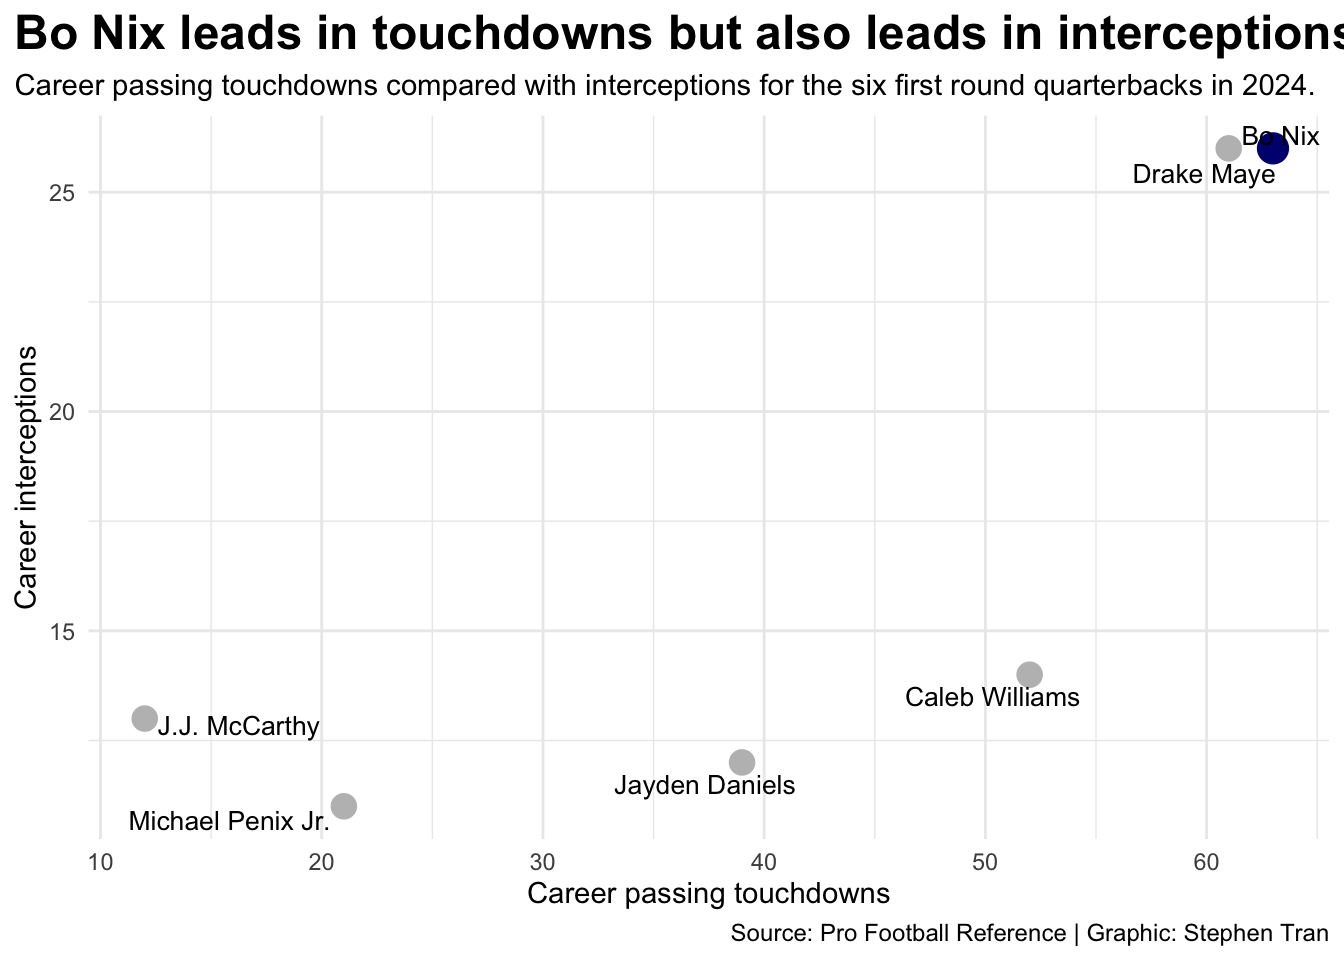
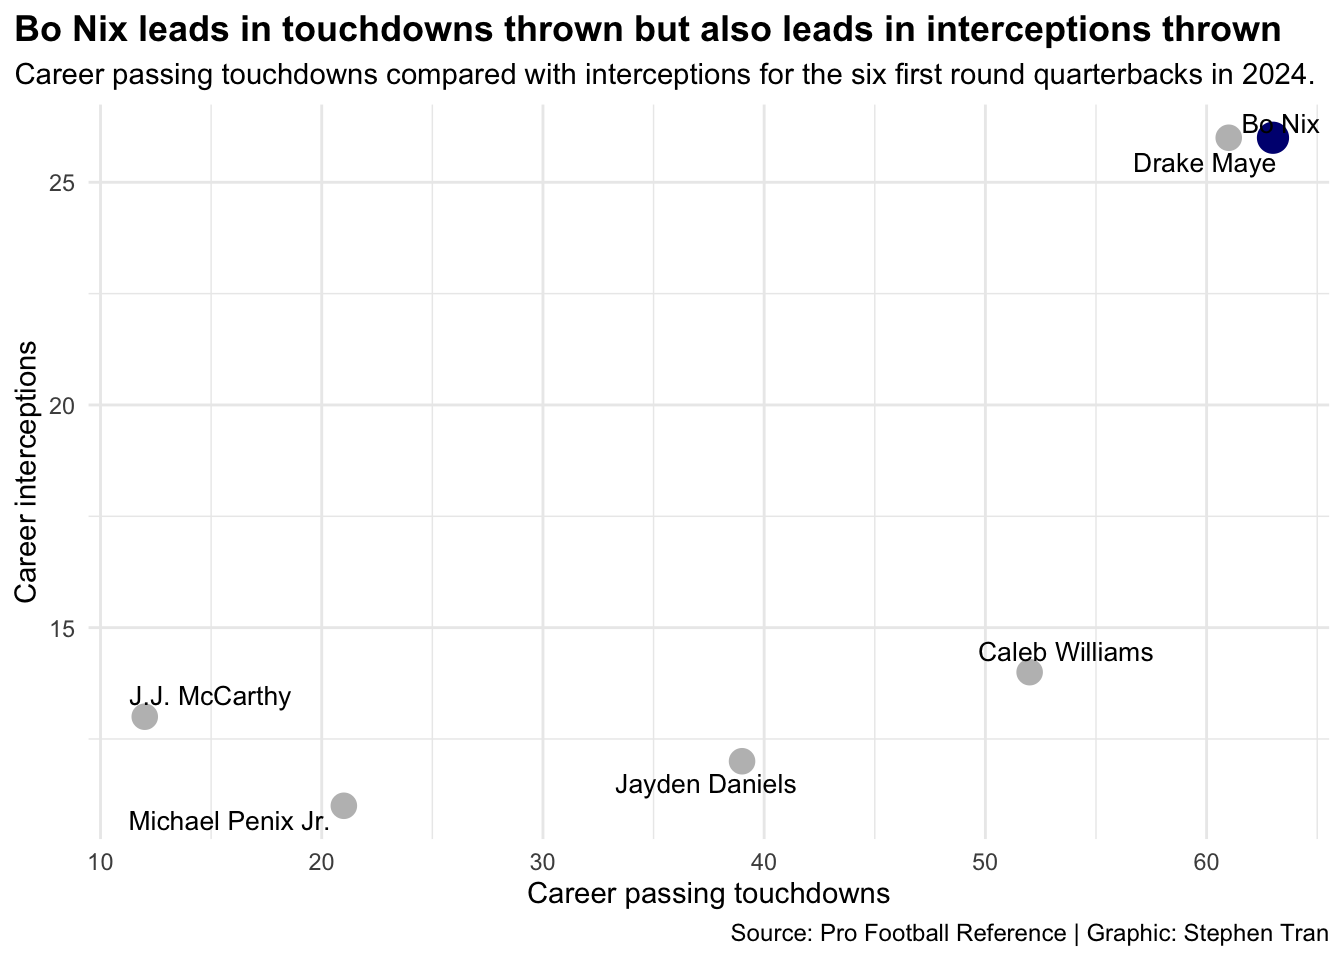
idk

diff --git a/posts/Bo-Nix-2024-qb-draft-class/index.html b/posts/Bo-Nix-2024-qb-draft-class/index.html
@@ -496,7 +496,7 @@ pre > code.sourceCode > span > a:first-child::before { text-decoration: underlin
 <span id="cb6-21"><a href="#cb6-21" aria-hidden="true" tabindex="-1"></a>    <span class="at">size =</span> <span class="fl">3.5</span></span>
 <span id="cb6-22"><a href="#cb6-22" aria-hidden="true" tabindex="-1"></a>  ) <span class="sc">+</span></span>
 <span id="cb6-23"><a href="#cb6-23" aria-hidden="true" tabindex="-1"></a>  <span class="fu">labs</span>(</span>
-<span id="cb6-24"><a href="#cb6-24" aria-hidden="true" tabindex="-1"></a>    <span class="at">title =</span> <span class="st">"Bo Nix leads in touchdowns but also leads in interceptions thrown"</span>,</span>
+<span id="cb6-24"><a href="#cb6-24" aria-hidden="true" tabindex="-1"></a>    <span class="at">title =</span> <span class="st">"Bo Nix leads in touchdowns thrown but also leads in interceptions thrown"</span>,</span>
 <span id="cb6-25"><a href="#cb6-25" aria-hidden="true" tabindex="-1"></a>    <span class="at">subtitle =</span> <span class="st">"Career passing touchdowns compared with interceptions for the six first round quarterbacks in 2024."</span>,</span>
 <span id="cb6-26"><a href="#cb6-26" aria-hidden="true" tabindex="-1"></a>    <span class="at">x =</span> <span class="st">"Career passing touchdowns"</span>,</span>
 <span id="cb6-27"><a href="#cb6-27" aria-hidden="true" tabindex="-1"></a>    <span class="at">y =</span> <span class="st">"Career interceptions"</span>,</span>
@@ -505,7 +505,7 @@ pre > code.sourceCode > span > a:first-child::before { text-decoration: underlin
 <span id="cb6-30"><a href="#cb6-30" aria-hidden="true" tabindex="-1"></a>  <span class="fu">theme_minimal</span>() <span class="sc">+</span></span>
 <span id="cb6-31"><a href="#cb6-31" aria-hidden="true" tabindex="-1"></a>  <span class="fu">theme</span>(</span>
 <span id="cb6-32"><a href="#cb6-32" aria-hidden="true" tabindex="-1"></a>    <span class="at">plot.title.position =</span> <span class="st">"plot"</span>,</span>
-<span id="cb6-33"><a href="#cb6-33" aria-hidden="true" tabindex="-1"></a>    <span class="at">plot.title =</span> <span class="fu">element_text</span>(<span class="at">size =</span> <span class="dv">18</span>, <span class="at">face =</span> <span class="st">"bold"</span>),</span>
+<span id="cb6-33"><a href="#cb6-33" aria-hidden="true" tabindex="-1"></a>    <span class="at">plot.title =</span> <span class="fu">element_text</span>(<span class="at">size =</span> <span class="fl">13.5</span>, <span class="at">face =</span> <span class="st">"bold"</span>),</span>
 <span id="cb6-34"><a href="#cb6-34" aria-hidden="true" tabindex="-1"></a>    <span class="at">plot.subtitle =</span> <span class="fu">element_text</span>(<span class="at">size =</span> <span class="dv">11</span>),</span>
 <span id="cb6-35"><a href="#cb6-35" aria-hidden="true" tabindex="-1"></a>    <span class="at">plot.caption =</span> <span class="fu">element_text</span>(<span class="at">size =</span> <span class="dv">9</span>)</span>
 <span id="cb6-36"><a href="#cb6-36" aria-hidden="true" tabindex="-1"></a>  )</span></code></pre></div><button title="Copy to Clipboard" class="code-copy-button"><i class="bi"></i></button></div>

diff --git a/index.html b/index.html
@@ -378,7 +378,7 @@ window.Quarto = {
 
 <div class="quarto-listing quarto-listing-container-default" id="listing-listing">
 <div class="list quarto-listing-default">
-<div class="quarto-post image-right" data-index="0" data-categories="TkZMJTJDRm9vdGJhbGwlMkNRdWFydGVyYmFja3M=" data-listing-date-sort="1794549600000" data-listing-file-modified-sort="1794372246640" data-listing-date-modified-sort="NaN" data-listing-reading-time-sort="5" data-listing-word-count-sort="826">
+<div class="quarto-post image-right" data-index="0" data-categories="TkZMJTJDRm9vdGJhbGwlMkNRdWFydGVyYmFja3M=" data-listing-date-sort="1794549600000" data-listing-file-modified-sort="1794372831266" data-listing-date-modified-sort="NaN" data-listing-reading-time-sort="5" data-listing-word-count-sort="827">
 <div class="thumbnail"><a href="./posts/Bo-Nix-2024-qb-draft-class/index.html" class="no-external">
 
 <img loading="lazy" src="./posts/Bo-Nix-2024-qb-draft-class/image.png" class="thumbnail-image">
